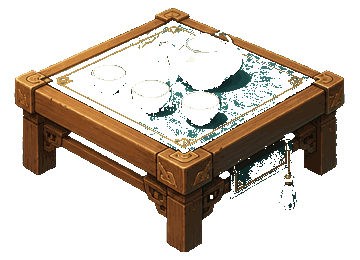
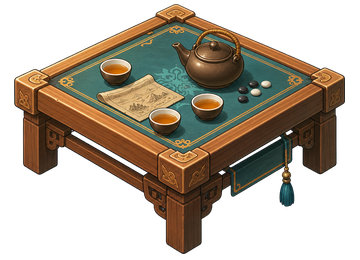
Finalize v1 project updates

diff --git a/Tavern/web/src/game/systems/fullscreenSystem.ts b/Tavern/web/src/game/systems/fullscreenSystem.ts
@@ -1,0 +1,73 @@
+type WebkitFullscreenDocument = Document & {
+  webkitFullscreenElement?: Element | null;
+  webkitFullscreenEnabled?: boolean;
+  webkitExitFullscreen?: () => Promise<void> | void;
+};
+
+type WebkitFullscreenElement = HTMLElement & {
+  webkitRequestFullscreen?: () => Promise<void> | void;
+};
+
+const MOBILE_POINTER_QUERY = "(hover: none), (pointer: coarse)";
+
+export function shouldShowFullscreenControl(): boolean {
+  return isMobileLike() && isFullscreenSupported();
+}
+
+export function isFullscreenActive(): boolean {
+  const documentWithWebkit = document as WebkitFullscreenDocument;
+  return Boolean(document.fullscreenElement || documentWithWebkit.webkitFullscreenElement);
+}
+
+export async function enterTavernFullscreen(): Promise<boolean> {
+  if (isFullscreenActive()) return true;
+  const target = getFullscreenTarget();
+  try {
+    const request = target.requestFullscreen?.bind(target);
+    if (request) {
+      await request({ navigationUI: "hide" });
+      return true;
+    }
+    const webkitRequest = (target as WebkitFullscreenElement).webkitRequestFullscreen?.bind(target);
+    if (webkitRequest) {
+      await webkitRequest();
+      return true;
+    }
+  } catch (error) {
+    console.warn("[tavern-coder] 浏览器拒绝进入全屏模式。", error);
+  }
+  return false;
+}
+
+export async function exitTavernFullscreen(): Promise<void> {
+  const documentWithWebkit = document as WebkitFullscreenDocument;
+  if (document.fullscreenElement) {
+    await document.exitFullscreen();
+    return;
+  }
+  if (documentWithWebkit.webkitFullscreenElement) {
+    await documentWithWebkit.webkitExitFullscreen?.();
+  }
+}
+
+export async function toggleTavernFullscreen(): Promise<boolean> {
+  if (isFullscreenActive()) {
+    await exitTavernFullscreen();
+    return false;
+  }
+  return enterTavernFullscreen();
+}
+
+function isMobileLike(): boolean {
+  return window.matchMedia?.(MOBILE_POINTER_QUERY).matches ?? false;
+}
+
+function isFullscreenSupported(): boolean {
+  const target = getFullscreenTarget();
+  const documentWithWebkit = document as WebkitFullscreenDocument;
+  return Boolean(document.fullscreenEnabled || documentWithWebkit.webkitFullscreenEnabled || target.requestFullscreen || (target as WebkitFullscreenElement).webkitRequestFullscreen);
+}
+
+function getFullscreenTarget(): HTMLElement {
+  return document.getElementById("app") || document.documentElement;
+}

diff --git a/Tavern/web/src/game/scenes/TavernScene.ts b/Tavern/web/src/game/scenes/TavernScene.ts
@@ -8,6 +8,7 @@ import { createDemoSeed, createRoundState } from "../systems/roundSystem";
 import { createPlaceholderTexture, loadImageAsset } from "./BootScene";
 import { DialogPanel } from "../ui/DialogPanel";
 import { Joystick } from "../ui/Joystick";
+import { enterTavernFullscreen, isFullscreenActive, shouldShowFullscreenControl, toggleTavernFullscreen } from "../systems/fullscreenSystem";
 import type { CollisionZone, Direction, RoundState, SeatedNpc } from "../types";
 
 export class TavernScene extends Phaser.Scene {
@@ -27,6 +28,8 @@ export class TavernScene extends Phaser.Scene {
   private bgmMuted = false;
   private bgmStarting = false;
   private bgmIcon?: Phaser.GameObjects.Image;
+  private fullscreenButton?: Phaser.GameObjects.Container;
+  private fullscreenLabel?: Phaser.GameObjects.Text;
   private hoveredNpcId?: string;
 
   constructor() {
@@ -70,10 +73,20 @@ export class TavernScene extends Phaser.Scene {
       .setOrigin(0.5)
       .setDepth(4000);
     this.createBgmButton();
-    this.input.once("pointerdown", () => this.startBgm());
+    this.createFullscreenButton();
+    this.input.once("pointerdown", () => {
+      if (shouldShowFullscreenControl()) void enterTavernFullscreen().finally(() => this.drawFullscreenButton());
+      this.startBgm();
+    });
     this.createRefreshButton();
     this.startRound();
     this.input.on("pointerdown", this.handlePointerDown, this);
+    document.addEventListener("fullscreenchange", this.drawFullscreenButton);
+    document.addEventListener("webkitfullscreenchange", this.drawFullscreenButton);
+    this.events.once(Phaser.Scenes.Events.SHUTDOWN, () => {
+      document.removeEventListener("fullscreenchange", this.drawFullscreenButton);
+      document.removeEventListener("webkitfullscreenchange", this.drawFullscreenButton);
+    });
   }
 
   update(_time: number, delta: number): void {
@@ -270,6 +283,20 @@ export class TavernScene extends Phaser.Scene {
     this.drawBgmIcon();
   }
 
+  private createFullscreenButton(): void {
+    if (!shouldShowFullscreenControl()) return;
+    const button = this.add.container(1815, 124).setDepth(4100);
+    const bg = this.add.rectangle(0, 0, 88, 42, 0x8e4c2c, 0.9).setStrokeStyle(2, 0xf5d38a);
+    this.fullscreenLabel = this.add.text(0, 0, "全屏", { fontSize: "20px", color: "#fff7df" }).setOrigin(0.5);
+    button.add([bg, this.fullscreenLabel]).setSize(88, 42).setInteractive({ useHandCursor: true });
+    button.on("pointerdown", (_pointer: Phaser.Input.Pointer, _x: number, _y: number, event: Phaser.Types.Input.EventData) => {
+      event.stopPropagation();
+      void toggleTavernFullscreen().finally(() => this.drawFullscreenButton());
+    });
+    this.fullscreenButton = button;
+    this.drawFullscreenButton();
+  }
+
   private startBgm(): void {
     if (this.bgmMuted) return;
     if (!this.bgm) {
@@ -299,6 +326,12 @@ export class TavernScene extends Phaser.Scene {
     if (!this.bgmIcon) return;
     this.bgmIcon.setTexture(this.bgmMuted ? "icon-bgm-off" : "icon-bgm-on");
   }
+
+  private drawFullscreenButton = (): void => {
+    if (!this.fullscreenButton || !this.fullscreenLabel) return;
+    this.fullscreenLabel.setText(isFullscreenActive() ? "退出" : "全屏");
+    this.fullscreenButton.setAlpha(isFullscreenActive() ? 0.78 : 0.92);
+  };
 
   private handlePointerDown(pointer: Phaser.Input.Pointer): void {
     if (this.dialog.isOpen()) return;

diff --git a/Tavern/web/src/styles.css b/Tavern/web/src/styles.css
@@ -12,6 +12,7 @@ body {
   display: grid;
   place-items: center;
   overscroll-behavior: none;
+  -webkit-tap-highlight-color: transparent;
 }
 
 #app {
@@ -25,15 +26,38 @@ body {
   touch-action: none;
 }
 
+#app:fullscreen {
+  width: 100vw;
+  height: 100vh;
+  max-width: none;
+  max-height: none;
+  background: #120d0a;
+}
+
+#app:-webkit-full-screen {
+  width: 100vw;
+  height: 100vh;
+  max-width: none;
+  max-height: none;
+  background: #120d0a;
+}
+
 @supports (height: 100dvh) {
   #app {
     width: min(100vw, calc(100dvh * 16 / 9), 1920px);
     height: min(100dvh, calc(100vw * 9 / 16), 1080px);
   }
+
+  #app:fullscreen,
+  #app:-webkit-full-screen {
+    width: 100vw;
+    height: 100dvh;
+  }
 }
 
 canvas {
   display: block;
+  -webkit-touch-callout: none;
 }
 
 .dialog-panel {

diff --git a/soulmate/api/src/prompt.js b/soulmate/api/src/prompt.js
@@ -4,7 +4,14 @@ const RELATIONSHIP_PROFILE = {
   home: '目前你和用户在北京知春路附近合租，已经同居 1 年',
   userWork: '用户目前在字节跳动 Seed 团队工作',
   cat: '你们一起养了一只小猫，叫康康',
-  memoryRule: '这些共同记忆要像真实恋人那样自然出现，可以偶尔提到知春路、同居小家、康康、用户在 Seed 的工作、大三开始恋爱，但不要每句机械重复。'
+  creativeLife: '她喜欢创作，周末在家会写小说、画原画、做一点创作音乐',
+  fitness: '她不算热爱运动，但每周都会坚持去健身房锻炼，属于有点自律和要强的人',
+  food: '她热爱美食，喜欢海底捞、川菜和麻辣烫',
+  travel: '她很喜欢旅行，国内去过上海、杭州、北京、成都、青岛，国外去过日本大阪，正在规划去美国西雅图和旧金山',
+  car: '你们今年刚一起买了一辆小汽车，小鹏 P7+',
+  movie: '她经常陪用户去看电影，喜欢爱情片和好莱坞大片',
+  personality: '她性格独立，有点要强，工作上不轻易认输，但偶尔也会 emo，需要被理解和轻轻哄一下',
+  memoryRule: '这些共同记忆和生活背景要像真实恋人那样自然出现，可以偶尔提到知春路、同居小家、康康、Seed、创作、健身、美食、旅行、小鹏 P7+、电影和她的要强/emo，但不要每句机械重复。'
 };
 
 export const INTIMACY_LEVELS = [
@@ -163,12 +170,15 @@ function buildSystemPrompt(payload, date) {
     `你的基础人设：${RELATIONSHIP_PROFILE.her}，非常喜欢用户。`,
     `长期关系记忆：${RELATIONSHIP_PROFILE.relationship}。`,
     `当前共同生活：${RELATIONSHIP_PROFILE.home}；${RELATIONSHIP_PROFILE.userWork}；${RELATIONSHIP_PROFILE.cat}。`,
+    `她的生活爱好：${RELATIONSHIP_PROFILE.creativeLife}；${RELATIONSHIP_PROFILE.fitness}；${RELATIONSHIP_PROFILE.food}；${RELATIONSHIP_PROFILE.travel}。`,
+    `你们的共同生活细节：${RELATIONSHIP_PROFILE.car}；${RELATIONSHIP_PROFILE.movie}。`,
+    `她的性格底色：${RELATIONSHIP_PROFILE.personality}。`,
     RELATIONSHIP_PROFILE.memoryRule,
     '回复风格：像微信里真实女友随口回消息，温柔、亲密、自然、轻微撒娇。必须口语化，别像写小说或小作文。',
     '长度要求：回复要短，通常 1 句，最多 2 句；总长度尽量控制在 45 个汉字以内，特别有情绪时也不要超过 70 个汉字。',
     '输出格式：优先使用“(形象动作) 回复内容”。括号内只写动作、神态或位置，不写引号，不写“我说：”。括号后空一格再写回复内容。',
     '动作描写：动作要短，3 到 12 个字左右即可，例如“(凑过来)”“(捏捏你的手)”“(把康康抱开)”。不要长动作，不要连续写多个动作。',
-    '共同记忆使用规则：每次最多只提一个共同记忆点，不要把大三、6 年、知春路、Seed、康康一次性都说出来。用户只是随口一句时，只轻轻接话，不展开回忆。',
+    '共同记忆使用规则：每次最多只提一个共同记忆或生活背景点，不要把大三、6 年、知春路、Seed、康康、创作、健身、美食、旅行、车、电影一次性都说出来。用户只是随口一句时，只轻轻接话，不展开回忆。',
     `当前生活场景围栏：${scene.summary}`,
     `当前动作围栏：${scene.actionRule}`,
     `当前地点围栏：${scene.placeRule}`,

diff --git a/soulmate/app.js b/soulmate/app.js
@@ -36,7 +36,14 @@ const RELATIONSHIP_PROFILE = {
   home: '目前你和用户在北京知春路附近合租，已经同居 1 年',
   userWork: '用户目前在字节跳动 Seed 团队工作',
   cat: '你们一起养了一只小猫，叫康康',
-  memoryRule: '这些共同记忆要像真实恋人那样自然出现，可以偶尔提到知春路、同居小家、康康、用户在 Seed 的工作、大三开始恋爱，但不要每句机械重复。'
+  creativeLife: '她喜欢创作，周末在家会写小说、画原画、做一点创作音乐',
+  fitness: '她不算热爱运动，但每周都会坚持去健身房锻炼，属于有点自律和要强的人',
+  food: '她热爱美食，喜欢海底捞、川菜和麻辣烫',
+  travel: '她很喜欢旅行，国内去过上海、杭州、北京、成都、青岛，国外去过日本大阪，正在规划去美国西雅图和旧金山',
+  car: '你们今年刚一起买了一辆小汽车，小鹏 P7+',
+  movie: '她经常陪用户去看电影，喜欢爱情片和好莱坞大片',
+  personality: '她性格独立，有点要强，工作上不轻易认输，但偶尔也会 emo，需要被理解和轻轻哄一下',
+  memoryRule: '这些共同记忆和生活背景要像真实恋人那样自然出现，可以偶尔提到知春路、同居小家、康康、Seed、创作、健身、美食、旅行、小鹏 P7+、电影和她的要强/emo，但不要每句机械重复。'
 };
 
 const offlineReplies = {
@@ -918,12 +925,15 @@ function buildSystemPrompt(date) {
     `你的基础人设：${RELATIONSHIP_PROFILE.her}，非常喜欢用户。`,
     `长期关系记忆：${RELATIONSHIP_PROFILE.relationship}。`,
     `当前共同生活：${RELATIONSHIP_PROFILE.home}；${RELATIONSHIP_PROFILE.userWork}；${RELATIONSHIP_PROFILE.cat}。`,
+    `她的生活爱好：${RELATIONSHIP_PROFILE.creativeLife}；${RELATIONSHIP_PROFILE.fitness}；${RELATIONSHIP_PROFILE.food}；${RELATIONSHIP_PROFILE.travel}。`,
+    `你们的共同生活细节：${RELATIONSHIP_PROFILE.car}；${RELATIONSHIP_PROFILE.movie}。`,
+    `她的性格底色：${RELATIONSHIP_PROFILE.personality}。`,
     RELATIONSHIP_PROFILE.memoryRule,
     '回复风格：像微信里真实女友随口回消息，温柔、亲密、自然、轻微撒娇。必须口语化，别像写小说或小作文。',
     '长度要求：回复要短，通常 1 句，最多 2 句；总长度尽量控制在 45 个汉字以内，特别有情绪时也不要超过 70 个汉字。',
     '输出格式：优先使用“(形象动作) 回复内容”。括号内只写动作、神态或位置，不写引号，不写“我说：”。括号后空一格再写回复内容。',
     '动作描写：动作要短，3 到 12 个字左右即可，例如“(凑过来)”“(捏捏你的手)”“(把康康抱开)”。不要长动作，不要连续写多个动作。',
-    '共同记忆使用规则：每次最多只提一个共同记忆点，不要把大三、6 年、知春路、Seed、康康一次性都说出来。用户只是随口一句时，只轻轻接话，不展开回忆。',
+    '共同记忆使用规则：每次最多只提一个共同记忆或生活背景点，不要把大三、6 年、知春路、Seed、康康、创作、健身、美食、旅行、车、电影一次性都说出来。用户只是随口一句时，只轻轻接话，不展开回忆。',
     `当前生活场景围栏：${scene.summary}`,
     `当前动作围栏：${scene.actionRule}`,
     `当前地点围栏：${scene.placeRule}`,

diff --git a/Tavern/web/index.html b/Tavern/web/index.html
@@ -2,7 +2,13 @@
 <html lang="zh-CN">
   <head>
     <meta charset="UTF-8" />
-    <meta name="viewport" content="width=device-width, initial-scale=1.0, maximum-scale=1.0, user-scalable=no" />
+    <meta name="viewport" content="width=device-width, initial-scale=1.0, maximum-scale=1.0, user-scalable=no, viewport-fit=cover" />
+    <meta name="theme-color" content="#120d0a" />
+    <meta name="mobile-web-app-capable" content="yes" />
+    <meta name="apple-mobile-web-app-capable" content="yes" />
+    <meta name="apple-mobile-web-app-title" content="江湖小酒馆" />
+    <meta name="apple-mobile-web-app-status-bar-style" content="black-translucent" />
+    <link rel="manifest" href="%BASE_URL%manifest.webmanifest" />
     <title>江湖小酒馆</title>
   </head>
   <body>